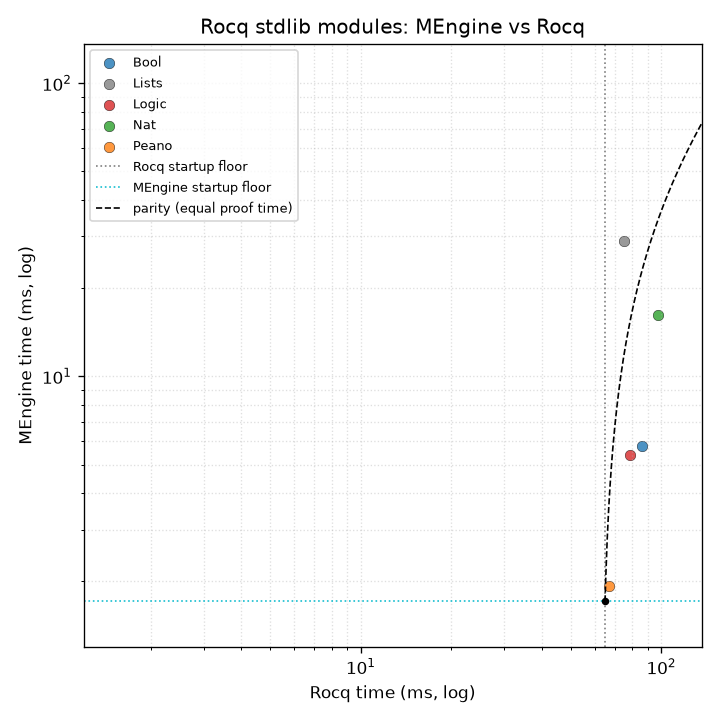
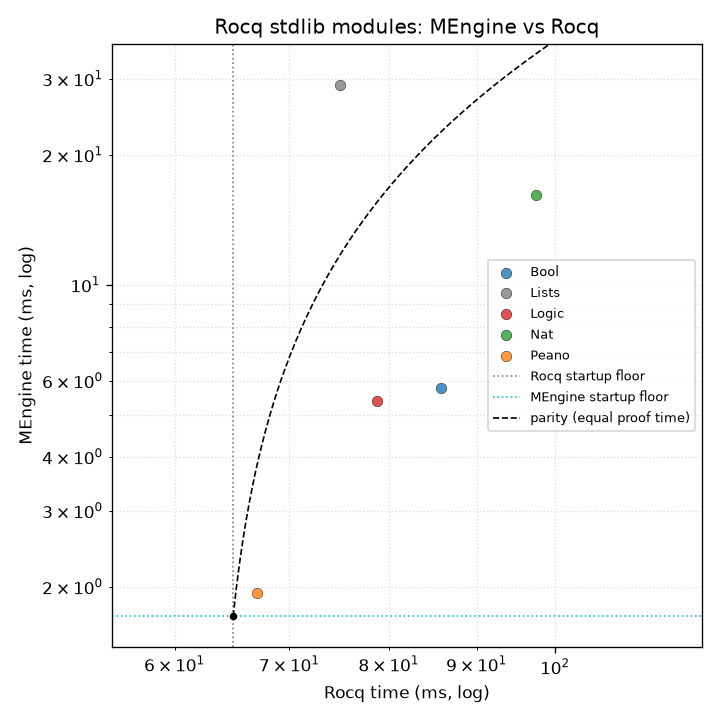
Give the scatter independent, tightly-padded axes
The data now sits in one corner (Rocq is startup-bound ~65ms, MEngine
proofs are ~ms), but the axes were a shared square [lo,hi] on both — a
leftover from the y=x parity convention — wasting most of the canvas.

Set x and y limits independently, each padded around its own data and
startup floor. Equal aspect is no longer needed since the parity line is
an explicit curve, not a 45° diagonal. The points now fill the plot and
are individually legible.

Claude-Session: https://claude.ai/code/session_01GNvD2hCU3jo1wq6fCLv9GT

diff --git a/benchmarks/stdlib/report.py b/benchmarks/stdlib/report.py
@@ -225,20 +225,23 @@ def _scatter(cfg, rows, meta=None):
         ax.scatter(xs, ys, label=cat, color=colors.get(cat, "gray"),
                    s=40, alpha=0.8, edgecolors="k", linewidths=0.3)
 
-    allv = [r["rocq"] * 1000 for r in pts] + [r["mengine"] * 1000 for r in pts]
-    lo, hi = min(allv) * 0.7, max(allv) * 1.4
-
-    # Startup floors: every point sits essentially on this cross because the
-    # proofs are below the per-invocation cost. Drawing the floors makes that
-    # explicit — the whole-file scatter is comparing startup, not proof time.
+    # Independent x/y limits, each padded around its own data and startup floor.
+    # The data now sits in one corner (Rocq is startup-bound, MEngine proofs are
+    # ~ms), so a shared square range would waste most of the canvas; the parity
+    # line is an explicit curve, not a 45° diagonal, so equal aspect isn't needed.
+    LO_PAD, HI_PAD = 0.85, 1.25
     r_floor, m_floor = meta.get("rocq_floor"), meta.get("mengine_floor")
+    xvals = [r["rocq"] * 1000 for r in pts] + ([r_floor * 1000] if r_floor else [])
+    yvals = [r["mengine"] * 1000 for r in pts] + ([m_floor * 1000] if m_floor else [])
+    xlo, xhi = min(xvals) * LO_PAD, max(xvals) * HI_PAD
+    ylo, yhi = min(yvals) * LO_PAD, max(yvals) * HI_PAD
+
+    # Startup floors: the scatter is dominated by per-invocation cost, so drawing
+    # the floors makes explicit that the whole-file comparison is mostly startup.
     if r_floor:
-        lo = min(lo, r_floor * 1000 * 0.7)
-        hi = max(hi, r_floor * 1000 * 1.4)
         ax.axvline(r_floor * 1000, color="tab:gray", ls=":", lw=1,
                    label="Rocq startup floor")
     if m_floor:
-        lo = min(lo, m_floor * 1000 * 0.7)
         ax.axhline(m_floor * 1000, color="tab:cyan", ls=":", lw=1,
                    label="MEngine startup floor")
 
@@ -253,15 +256,15 @@ def _scatter(cfg, rows, meta=None):
     if r_floor and m_floor:
         r0, m0 = r_floor * 1000, m_floor * 1000
         npts = 200
-        xs_line = [r0 + (hi - r0) * k / (npts - 1) for k in range(npts)]
+        xs_line = [r0 + (xhi - r0) * k / (npts - 1) for k in range(npts)]
         ys_line = [m0 + (x - r0) for x in xs_line]
         ax.plot(xs_line, ys_line, "k--", lw=1, label="parity (equal proof time)")
         ax.plot([r0], [m0], "k.", ms=7, zorder=5)  # the floor cross = origin
     else:
-        ax.plot([lo, hi], [lo, hi], "k--", lw=1, label="parity")
+        ax.plot([xlo, xhi], [ylo, yhi], "k--", lw=1, label="parity")
 
     ax.set_xscale("log"); ax.set_yscale("log")
-    ax.set_xlim(lo, hi); ax.set_ylim(lo, hi)
+    ax.set_xlim(xlo, xhi); ax.set_ylim(ylo, yhi)
     ax.set_xlabel("Rocq time (ms, log)")
     ax.set_ylabel("MEngine time (ms, log)")
     ax.set_title("Rocq stdlib modules: MEngine vs Rocq")
